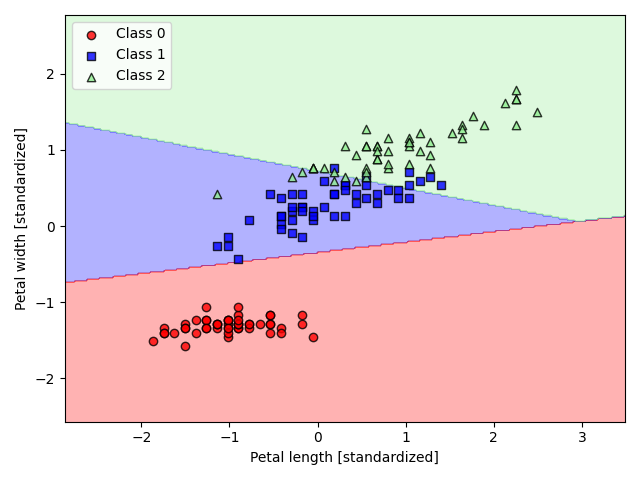
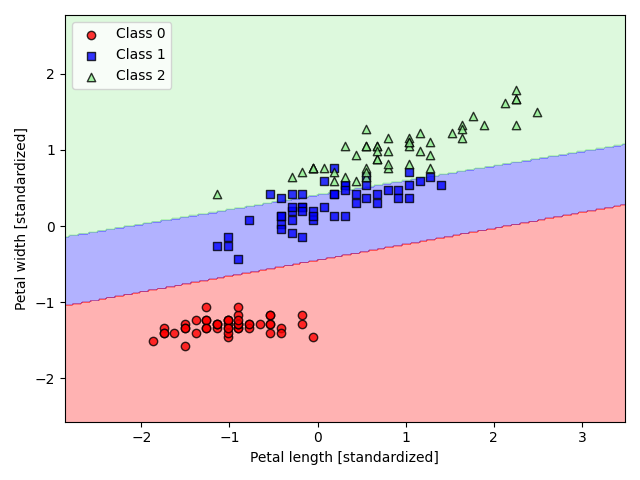
Fixed task 3 to talk about Perceptron and added more info

Changed region(s): [[0.0938, 0.25, 1.0, 0.5], [0.0938, 0.5, 0.6562, 0.6562]]

diff --git a/Assignment1/report.tex b/Assignment1/report.tex
@@ -11,23 +11,57 @@
 
 \section{Task 1}
 
+The way that the bias was absorbed into the weight was that it was added as the first element of the weight vector. This changes the size of that vector so we need to account for that new value inside of every place where we do vector matrix multiplication or any other places where the size of W is needed to be the same as some other provided value. The first place this needs to be done is when calculating the net inputs. The original net inputs is $z=w_1x_1+w_2x_2+\cdots+w_mx_m+b$ and we want to keep the same value for this so we need to add a constant 1 to the start of X so that when we do the dot product the shape is valid and we still get the same result. So we add a 1 to the start of X to match with the bias being used as the first element in the vector W. The way I do this is by having the bias be another random number that is created at the same time as W and it is inside of W. I then make a variable for X with bias that is just X with a leading 1 in the first element. This new version of X can then be used any place where the normal X and the weight vector interact so in the net input function, when recalculating the value of the weights and when doing the predict with a new X. In the case with predict, I remake the X adding the leading one because in predict it is likely that the new values are change, so X is different. 
+
+The two different versions (bias absorbed and normal) give us the same value We can see this because our weight vector is now $W=w_0,w_1,\cdots,w_m$ where $w_0$ is the bias value. We do the dot product of the $W$ and $X$ we still get the same result because we get the equation $W\cdot X= (1\cdot w_0)+(w_1\cdot x_1)+\cdots$ we see that the dot product with give us 1 times $w_0$ and we know that $w_0$ is our bias. So, this is equal to $b+\sum_{j=1}^mw_jx_j$ and this is the original formula for the model. Doing this allows us to update the bias by the same gradient descent model that is used to update all of the other weights. This also saves computation time because now we only have to do a single operation of $W\cdot X$ when before it was $W\cdot X +b$. 
+
 \section{Task 2}
 
-\section{Task 3}
-The way in which I devolved the multiclass classification using Adaline was by using hierarchical classification. Hierarchical classification is splitting the groups into different sets. The first model is used to classify if it is group 1 or something else. The second model is used to separate the class 1 and 2 from each other. The second model is only trained using class 1 and 2 while the first model has all of the data but to it class 1 and 2 are the same thing (or not class 0). That is how the data is trained using fit. When we go to predict data with a value we give it the value or values like we normally do. We first use model 1 to check to see the value is with class 0 or either class 1 or 2. If it is class 0 then we say it is normally. If it is not class 0 then we have to use the second model to see if it is class 1 or 2. 
-
-The other option that I found for multiclass classification using Adaline was by using a one vs rest idea. The idea is that you have a model for each class of data and the values in that model are positive for that class and negative for all other ones. The way this is used to predict a value is when we get a new data point x we do not know what model would be best so we test all of the models and which ever one gives the highest value is the model it belongs to. 
+The test that I did for this was that the learning rate was $0.01$ and I used $500$ Epochs. This was a good balance between having too large of a learning rate and having too many epochs. I ran too different tests the first shown in figure \ref{fig:plot_Iris} is the Iris data set with both Adaline and logistic regression. The second shown in figure \ref{fig:plot_Wine} is a graph of the wine dataset. One thing to point out with the comparison of the two types of machine learning models is that Adaline uses the mean squared error and logistic regression uses Log loss. The data for both was also standardized. 
 
 \begin{figure}[htbp]
     \centering
-    \begin{minipage}{0.48\textwidth}
+    \includegraphics[width=0.75\linewidth]{Assignment1/figures/myplot_Iris_Loss.png}
+    \caption{Iris Dataset Error Graph}
+    \label{fig:plot_Iris}
+\end{figure}
+In figure \ref{fig:plot_Iris} we are comparing the Iris dataset using Adaline and Logistic Regression. With Adaline we can see the loss value gets to be very low and flatten out after only 100 Epochs and after that point there is not much work to be done so that part is a waste of work. For logistic regression We can see that the values of the loss are very different from Adaline this is because of the scale of the graph. The thing that is important is the shape of the graph. With that we can see that graph is a more gradual curve than Adaline. We can also see that the even after 500 Epochs we still have a large loss. We can see that at the end the slope is still slightly negative so there is still work that needs to be done to maximize the gap between the two classes.  
+\begin{figure}[htbp]
+    \centering
+    \includegraphics[width=0.75\linewidth]{Assignment1/figures/myplot_Wine_Loss.png}
+    \caption{Wine Dataset Error Graph}
+    \label{fig:plot_Wine}
+\end{figure}
+
+In figure \ref{fig:plot_Wine} we see a similar thing that we saw in figure \ref{fig:plot_Iris}. For Adaline we see a steep drop off in the lost and a flattening of the curve after 100 Epochs. This means that after 100 Epochs we see diminishing returns in the reduction of the loss. For Logistic regression we can see that in the beginning the slope is very negative and as the number of Epochs increase we see a reduction in the slope. After the 500th Epoch we still have a fairly negative slope so the number of Epochs or learning rate should be increased. 
+
+\begin{figure}[htbp]
+    \centering
+    \includegraphics[width=0.75\linewidth]{Assignment1//figures/myplot_Loss_Wine_5000.png}
+    \caption{Wine Dataset Error Graph with increased Epochs}
+    \label{fig:Wine5000}
+\end{figure}
+
+We can see in both of the data sets tested that Adaline has almost found the optimal separation between the two classes after only 100 Epochs. By comparison with Logistic regression after 500 Epochs we are still have a negative slope so we either need to increase the learning rate or increase the number of Epochs we use. in Figure \ref{fig:Wine5000} we can see with an increased number of Epochs up to 5000 we finally see the slope get closer to zero than we did with 500 Epochs but with this number of Epochs it is very hard to see the slope of Adaline. In Adaline it is almost a straight line down to zero the a flat line down from there to 5000 Epochs. This exaggerates the effect of showing that Adaline does not need that number of Epochs when we have a higher learning rate. The graph not shown is the graph of Iris with the increased Epochs. In this graph still after over 5000 iterations we still do not have a flat line at the bottom of the graph while Adaline has been done for a long time. 
+
+The reason we see this difference is because that Adaline works very well when sets of data are linearly separable very clearly. In both wine and Iris data sets the data is linearly separable so Adaline works very well for this data. With the data was not as clearly linearly separable then we would not see the great performance that we see from Adaline. Another reason we see this difference so much is how the losses are being calculated. With Adaline we use mean squared error and this leads to when we see that the weights are close to the value needed the error because very small because of the square. With logistical regression it uses a sigmoid function so even when the model correctly classifies the points it will keep updating the weights to push the values closer to 0 or 1. This results in the long curve that we see in the figures above leading to an increased number of epochs to get to the maximum values even when that might not be necessary. 
+
+
+\section{Task 3} %TODO FIX THIS SECTION to talk about Perceptron
+The way in which I devolved the multiclass classification using Perceptron was by using hierarchical classification. Hierarchical classification is splitting the groups into different sets. The first model is used to classify if it is group 1 or something else. The second model is used to separate the class 1 and 2 from each other. The second model is only trained using class 1 and 2 while the first model has all of the data but to it class 1 and 2 are the same thing (or not class 0). That is how the data is trained using fit. When we go to predict data with a value we give it the value or values like we normally do. We first use model 1 to check to see the value is with class 0 or either class 1 or 2. If it is class 0 then we say it is normally. If it is not class 0 then we have to use the second model to see if it is class 1 or 2. 
+
+The other option that I found for multiclass classification using Perceptron was by using a one vs rest idea. The idea is that you have a model for each class of data and the values in that model are positive for that class and negative for all other ones. The way this is used to predict a value is when we get a new data point x we do not know what model would be best so we test all of the models and which ever one gives the highest value is the model it belongs to. 
+
+\begin{figure}[htbp]
+    \centering
+    \begin{minipage}{0.5\textwidth}
         \centering
         \includegraphics[width=\linewidth]{Assignment1/figures/myplot.png}
         \caption{Hierarchical classification}
         \label{fig:plot1}
     \end{minipage}
     \hfill 
-    \begin{minipage}{0.48\textwidth}
+    \begin{minipage}{0.49\textwidth}
         \centering
         \includegraphics[width=\linewidth]{Assignment1/figures/myplot2.png}
         \caption{One V.S Rest Classification}
@@ -35,7 +69,7 @@ The other option that I found for multiclass classification using Adaline was by
     \end{minipage}
 \end{figure}
 
-The reason that I did hierarchical classification over one vs rest was because of how the data is structured and how the they compared to each other. I had originally done one vs rest but after looking at the output of the predication model and how it was graphed it did not look like it would be good. The original had the line for class 0 right next to classes 1 and 2 and the the line separating classes 1 and 2 was vertical. Since classes 1 and 2 are very similar with the petal width and length so it did a bad job classifying them. When using hierarchical classification I was able to get it where the line reduced the number of miss classification by making it so the line would be either vertical or horizontal if needed. In this case we have a diagonal line that best fits the data. This change in the two versions can be seen in figures \ref{fig:plot1} and \ref{fig:plot2}.
+The reason that I did hierarchical classification over one vs rest was because of how the data is structured and how the they compared to each other. I had originally done one vs rest but after looking at the output of the predication model and how it was graphed it did not look like it would be good. The original had the line for class 0 right next to classes 1 and 2 and the the line separating classes 1 and 2 was vertical. Since classes 1 and 2 are very similar with the petal width and length so it did a bad job classifying them. When using hierarchical classification I was able to get it where the line reduced the number of miss classification by making it so the line would be either vertical or horizontal if needed. In this case we have a diagonal line that best fits the data. This change in the two versions can be seen in figures \ref{fig:plot1} and \ref{fig:plot2}. This conflict in the two types of models could be because of the learning rate and the number of iterations. When changing these hyperparameter it changes how the graphs will look and intern how to model predicts any given value. After trying to get the One Vs Rest model to work I was unable to get it to look similar to when running the same data through a know library like sklearn. This made me think that there was another way that should be done to get a better result. With some data using a one vs rest model might work well but in this case with the Iris dataset it did not achieve the accuracy that I was looking for. 
 
 \section{Task 4}
 
